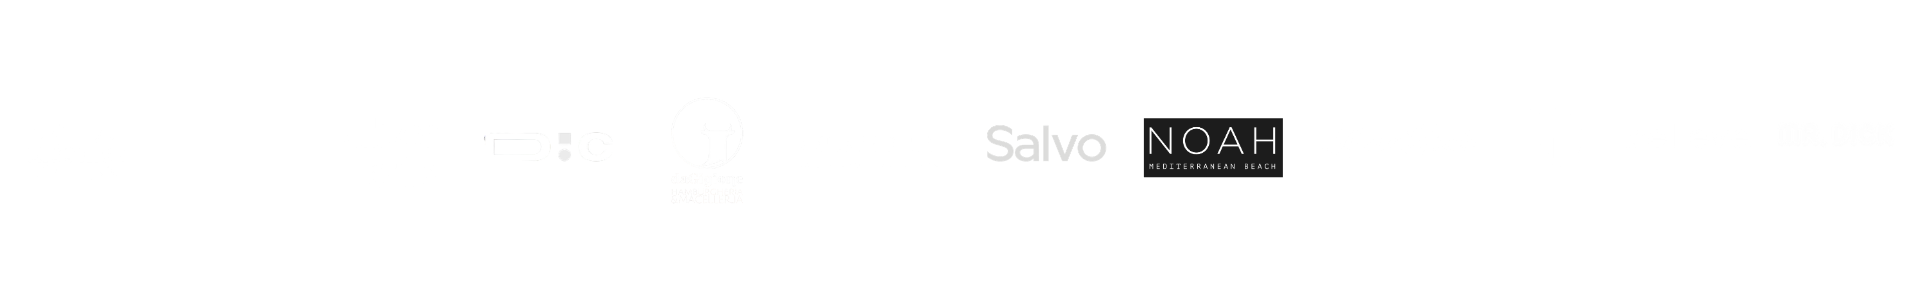
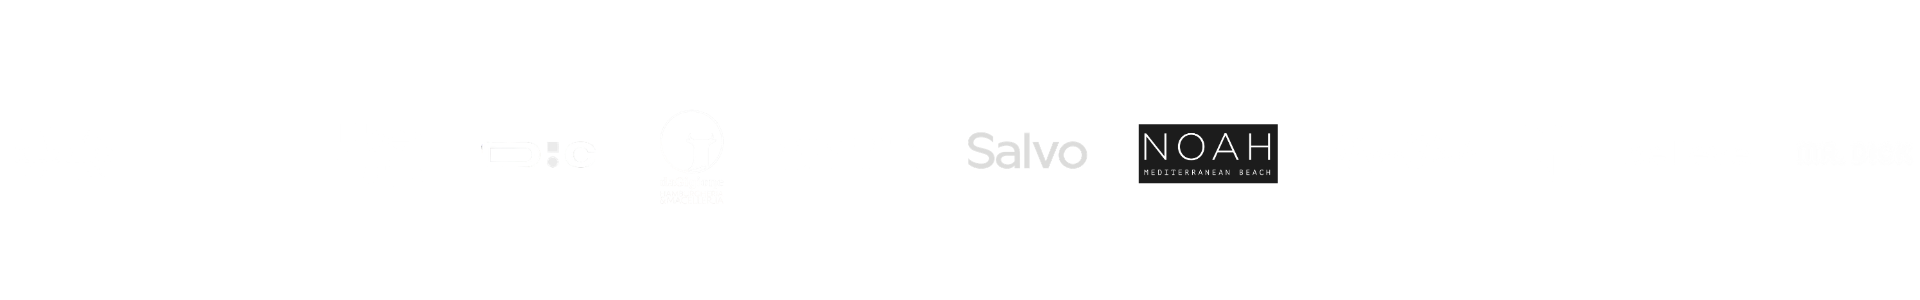
auto: update 20260510-171215

Changed region(s): [[0.5, 0.39, 0.6875, 0.63]]

diff --git a/src/sections/HeroSection.tsx b/src/sections/HeroSection.tsx
@@ -13,6 +13,7 @@ export default function HeroSection() {
   const { t } = useLanguage();
 
   return (
+    <>
     <section
       className="relative md:min-h-screen flex flex-col"
       style={{ overflowX: 'clip' }}
@@ -106,10 +107,13 @@ export default function HeroSection() {
         </FadeIn>
       </div>
 
+      </section>
+
       {/* Desktop only — clients logo bar (seamless horizontal marquee with edge fade) */}
       <div
-        className="hidden md:block relative z-20 mt-24 lg:mt-32 xl:mt-40 overflow-hidden w-full"
+        className="hidden md:block relative z-20 overflow-hidden w-full -mt-2 lg:-mt-4"
         style={{
+          background: '#0C0C0C',
           height: 'clamp(150px, 14vw, 260px)',
           maskImage:
             'linear-gradient(to right, transparent 0%, black 8%, black 92%, transparent 100%)',
@@ -121,7 +125,8 @@ export default function HeroSection() {
         <motion.div
           className="flex items-center h-full will-change-transform"
           style={{ width: 'max-content' }}
-          animate={{ x: ['0%', '-50%'] }}
+          initial={{ x: 0 }}
+          animate={{ x: '-50%' }}
           transition={{ duration: 22, ease: 'linear', repeat: Infinity, repeatType: 'loop' }}
         >
           {[0, 1].map((i) => (
@@ -135,7 +140,6 @@ export default function HeroSection() {
           ))}
         </motion.div>
       </div>
-
-    </section>
+    </>
   );
 }
